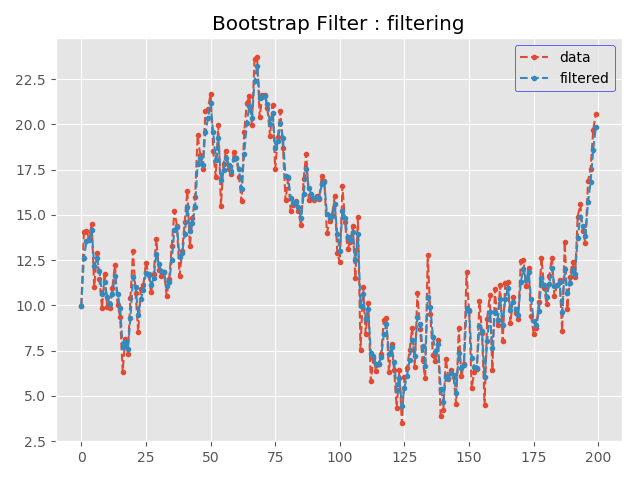
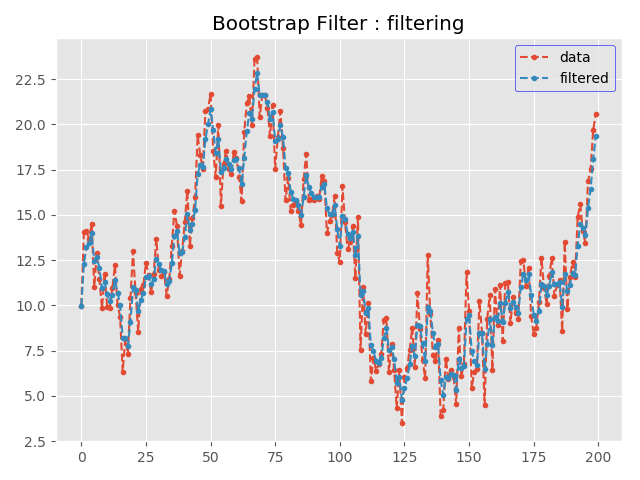
add 11_9 & correct 11_1

diff --git a/tsbook-code11_9.py b/tsbook-code11_9.py
@@ -2,31 +2,31 @@
 # -*- coding: utf-8 -*-
 """
 ===========================================================
-bootstrap filter to "ArtifitialLocalLevelModel.RData"
+bootstrap filter to "BenchmarkNonLinearModel.RData"
 ===========================================================
-# 注意：元スクリプトに倣い、事前分布を時点0とし、本来の時点を＋１シフトして扱う
-Created on Sun Jul 29 16:04:29 2018
+Created on Sun Aug 12 23:57:03 2018
 
 @author: narrowly
 """
 
 import numpy as np
-import pandas as pd
+#import pandas as pd
 import scipy.stats as sct
-import random
-import pyper
+#import random
+#import pyper
 import matplotlib.pyplot as plt
 plt.style.use('ggplot')
 
 # 前処理
-np.random.seed(21)
+np.random.seed(4521)
 N = 10000 # N_particle
 
-r = pyper.R(use_numpy='True', use_pandas='True')
-r("load('data/ArtifitialLocalLevelModel.RData')")
-y = r.get('y').astype(np.float64)
-t_max = r.get('t_max')
-mod = r.get('mod')
+#r = pyper.R(use_numpy='True', use_pandas='True')
+#r("load('data/BenchmarkNonLinearModel.RData')")
+#y = r.get('y').astype(np.float64)
+#t_max = r.get('t_max')
+#m0 = r.get('m0'); C0 = r.get('C0'); W = r.get('W'); V = r.get('V')
+#x_true = r.get('x_true')
 
 # %% コード11-5
 ##【logsumexp】
@@ -56,8 +56,31 @@ def sys_resampling(N, w):
     k = np.array([F_inv(w_cumsum, ind, val) for val in u])
     return k
 
-    
-# %% コード11-7 (コード11-1がベース)
+# %% コード11-8
+W = 1; V = 2; m0 = 10; C0 = 9
+
+# 状態方程式における非線形関数
+def f(x, t):
+    return (x / 2) + (25 * x / (1 + x**2)) + (8 * np.cos(1.2 * t))
+
+# 観測方程式における非線形関数
+def h(x):
+    return (x**2) / 20
+
+t_max = 100
+# データの初期化
+x_true = np.repeat(np.nan, repeats=t_max+1)
+y = np.repeat(np.nan, repeats=t_max+1)
+
+x_true[0] = m0
+for it in np.arange(t_max)+1:
+    x_true[it] = f(x_true[it - 1], it) + np.random.normal(scale=np.sqrt(W), size=1)
+    y[it] = h(x_true[it]) + np.random.normal(scale=np.sqrt(V), size=1)
+
+x_true = x_true[1:]
+y = y[1:]
+
+# %% コード11-9 (コード11-7がベース)
 # データの整形
 y = np.r_[np.nan, y]
 
@@ -68,7 +91,7 @@ k = np.repeat(np.arange(N)[:, np.newaxis], t_max+1, axis=1)
 # 事前分布の設定
 # 粒子 (実現値)
 x = np.zeros(shape=(t_max+1, N))
-x[0,:] = np.random.normal(loc=mod["m0"] , scale=np.sqrt(mod["C0"][0][0]) , size=N)
+x[0,:] = np.random.normal(loc=m0 , scale=np.sqrt(C0) , size=N)
 
 
 # 粒子(重み)
@@ -78,9 +101,9 @@ w[0,:] = np.log(1/N)
 # 時間順方向の処理
 for tt in np.arange(t_max)+1 :
     # 提案分布：状態方程式を使用。粒子を生成する。
-    x[tt,:] = np.random.normal(loc=x[tt-1,:], scale=np.sqrt(mod["W"][0][0]), size=N)
+    x[tt,:] = np.random.normal(loc=f(x=x[tt-1,:], t=tt), scale=np.sqrt(W), size=N)
     # 重みを更新。 bootstrap filterなので、観測方程式をそのまま使えば良い。
-    w[tt,:] = w[tt-1,:] + sct.norm.logpdf(y[tt], loc=x[tt,:], scale=np.sqrt(mod["V"]))
+    w[tt,:] = w[tt-1,:] + sct.norm.logpdf(y[tt], loc=h(x=x[tt,:]), scale=np.sqrt(V))
     # 重みの規格化
     w[tt,:] = normalize(w[tt,:])
     
@@ -96,19 +119,21 @@ w = w[1:]; x = x[1:]; k = k[1:]; y = y[1:]
 
 # 各時刻の粒子平均値をプロット
 plt.figure(1)
-plt.plot(y, marker=".", linestyle="--")
+plt.plot(x_true, marker=".", linestyle="--")
 plt.plot(np.mean(x, axis=1), marker=".", linestyle="--")
-plt.title('Bootstrap Filter : filtering')
-plt.legend(["data", "filtered"], frameon=True, edgecolor="b")
+plt.plot(y, marker=".", color="grey", alpha=0.3)
+plt.title('Benchmark NonLinear Model : filtering')
+plt.legend(["x_true", "filtered", "observed"], frameon=True, edgecolor="b")
 plt.tight_layout(); plt.show()
-plt.savefig("result/mean_11-7.png")
+plt.savefig("result/mean_11-9.png")
 
 # 50%区間のプロット
 plt.figure(2)
-plt.plot(np.arange(t_max), y, marker=".", linestyle="--")
+plt.plot(np.arange(t_max), x_true, marker=".", linestyle="--")
 plt.fill_between(np.arange(t_max), y1=np.percentile(x, 75, axis=1), 
                  y2=np.percentile(x, 25, axis=1), facecolor="b", alpha=0.3)
-plt.title('Bootstrap Filter : filtering')
-plt.legend(["data", "filtered"], frameon=True, edgecolor="b")
+plt.plot(y, marker=".", color="grey", alpha=0.3)
+plt.title('Benchmark NonLinear Model : filtering')
+plt.legend(["x_true", "observed", "filtered"], frameon=True, edgecolor="b")
 plt.tight_layout(); plt.show()
-plt.savefig('result/percentile_11-7.png')
+plt.savefig('result/percentile_11-9.png')

diff --git a/tsbook-code11_1.py b/tsbook-code11_1.py
@@ -49,7 +49,7 @@ w[0,:] = 1/N
 # 時間順方向の処理
 for tt in np.arange(t_max)+1 :
     # 提案分布：状態方程式を使用。粒子を生成する。
-    x[tt,:] = np.random.normal(loc=x[tt-1,:], scale=np.sqrt(mod["V"][0][0]), size=N)
+    x[tt,:] = np.random.normal(loc=x[tt-1,:], scale=np.sqrt(mod["W"][0][0]), size=N)
     # 重みを更新。 bootstrap filterなので、観測方程式をそのまま使えば良い。
     w[tt,:] = w[tt-1,:] * sct.norm.pdf(y[tt], loc=x[tt,:], scale=np.sqrt(mod["V"]))
     # 重みの規格化
@@ -72,6 +72,7 @@ plt.plot(np.mean(x, axis=1), marker=".", linestyle="--")
 plt.title('Bootstrap Filter : filtering')
 plt.legend(["data", "filtered"], frameon=True, edgecolor="b")
 plt.tight_layout(); plt.show()
+plt.savefig("result/mean_11-1.png")
 
 # 50%区間のプロット
 plt.figure(2)
@@ -81,3 +82,4 @@ plt.fill_between(np.arange(t_max), y1=np.percentile(x, 75, axis=1),
 plt.title('Bootstrap Filter : filtering')
 plt.legend(["data", "filtered"], frameon=True, edgecolor="b")
 plt.tight_layout(); plt.show()
+plt.savefig('result/percentile_11-1.png')
